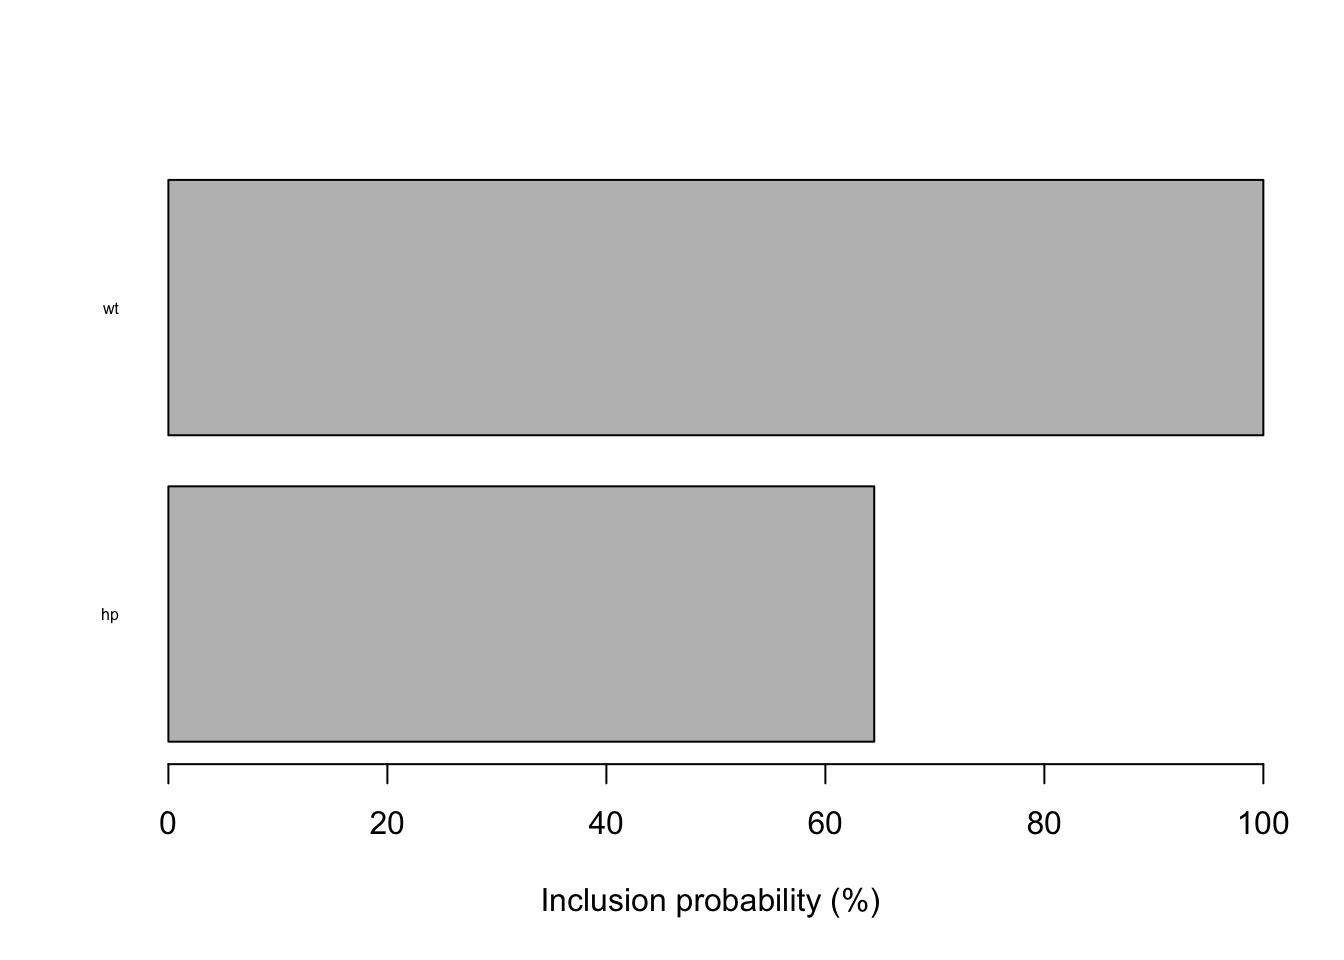
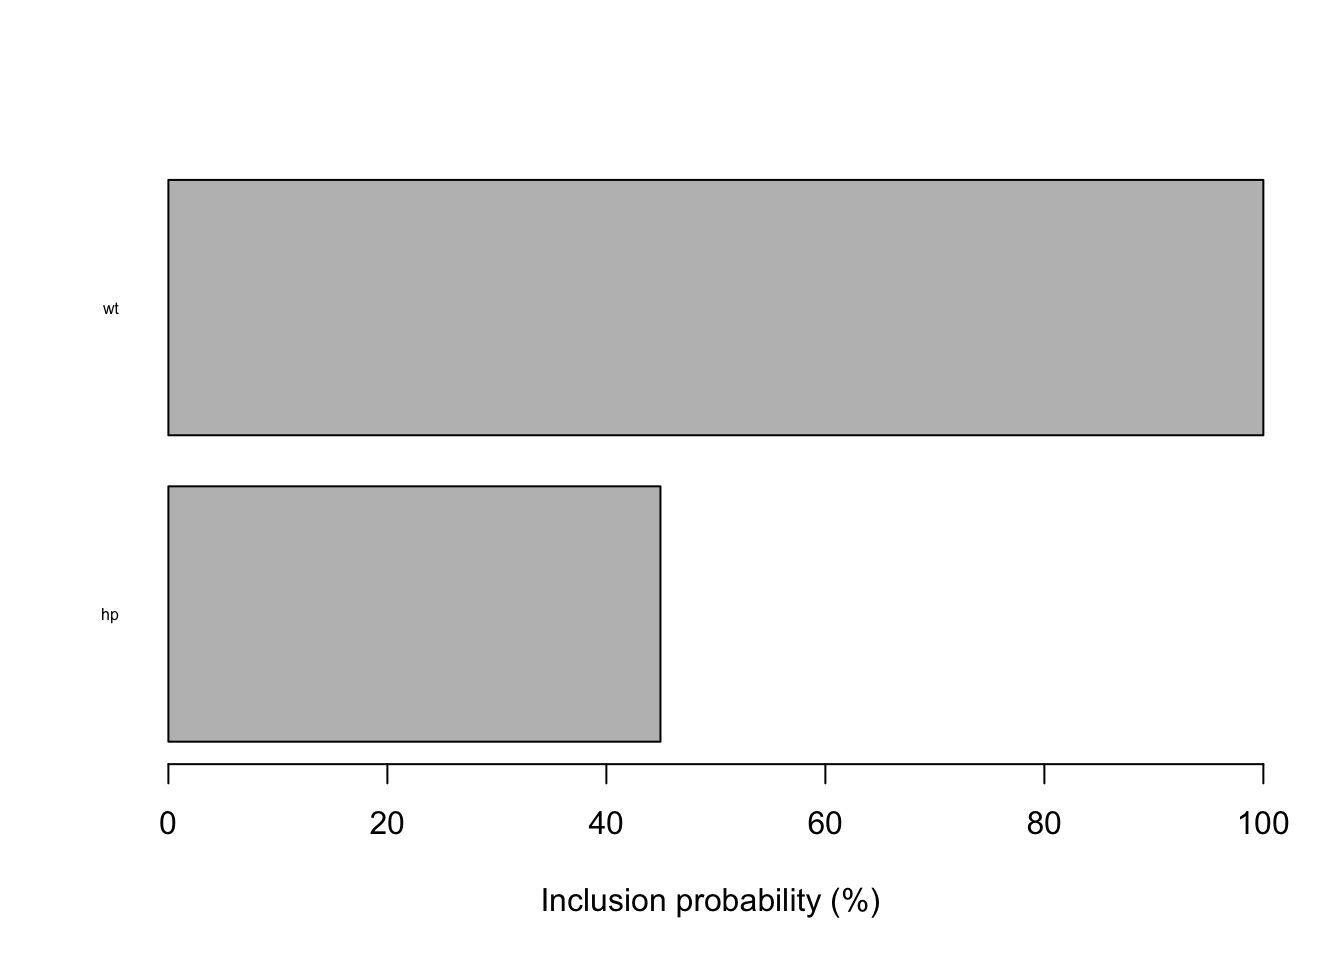
Revise articles

Changed region(s): [[0.4688, 0.5, 0.6562, 0.7812]]

diff --git a/docs/articles/quickstart.html b/docs/articles/quickstart.html
@@ -72,13 +72,12 @@
       <h1>Quickstart</h1>
                         <h4 class="author">Kim Seonghyun</h4>
             
-            <h4 class="date">2017-10-24</h4>
+            <h4 class="date">2017-12-21</h4>
           </div>
 
     
     
 <div class="contents">
-<pre><code>## Warning: package 'dplyr' was built under R version 3.4.2</code></pre>
 <div id="installation" class="section level3">
 <h3 class="hasAnchor">
 <a href="#installation" class="anchor"></a>Installation</h3>
@@ -131,22 +130,22 @@ mea_session &lt;-<span class="st"> </span><span class="dv">17</span>:<span class
 <p>If you hope to see details of those anomalies:</p>
 <div class="sourceCode"><pre class="sourceCode r"><code class="sourceCode r"><span class="kw"><a href="../reference/summarise_anomaly.html">summarise_anomaly</a></span>(.cbar, <span class="dt">.session =</span> <span class="st">"measurement"</span>)</code></pre></div>
 <pre><code>##               datetime     session    y point_pred lower_bound upper_bound
-## 1  2017-10-24 15:36:05 measurement 14.7   10.73854    6.038530    15.48577
-## 2  2017-10-24 15:37:05 measurement 32.4   24.78351   20.909834    29.09613
-## 3  2017-10-24 15:38:05 measurement 30.4   26.65729   21.523477    32.15219
-## 4  2017-10-24 15:39:05 measurement 33.9   25.78222   21.015800    30.66371
-## 5  2017-10-24 15:40:05 measurement 21.5   23.18060   19.034322    27.79085
-## 6  2017-10-24 15:41:05 measurement 15.5   17.63011   13.531929    21.60156
-## 7  2017-10-24 15:42:05 measurement 15.2   18.00846   14.001904    21.90181
-## 8  2017-10-24 15:43:05 measurement 13.3   14.37214    8.894254    19.60739
-## 9  2017-10-24 15:44:05 measurement 19.2   16.05851   11.777362    20.09438
-## 10 2017-10-24 15:45:05 measurement 27.3   25.40571   20.875118    29.54783
-## 11 2017-10-24 15:46:05 measurement 26.0   24.04003   19.378786    29.14389
-## 12 2017-10-24 15:47:05 measurement 30.4   24.93038   18.421915    30.68980
-## 13 2017-10-24 15:48:05 measurement 15.8   15.60427    8.023787    23.12472
-## 14 2017-10-24 15:49:05 measurement 19.7   19.36796   12.986639    24.68691
-## 15 2017-10-24 15:50:05 measurement 15.0   12.40539    1.893594    21.03035
-## 16 2017-10-24 15:51:05 measurement 21.4   22.02740   17.812783    26.41346
+## 1  2017-12-21 15:50:09 measurement 14.7   10.80981    6.453536    15.67128
+## 2  2017-12-21 15:51:09 measurement 32.4   24.94162   20.481840    29.27472
+## 3  2017-12-21 15:52:09 measurement 30.4   27.09495   21.555414    34.54683
+## 4  2017-12-21 15:53:09 measurement 33.9   25.98294   21.388805    30.63084
+## 5  2017-12-21 15:54:09 measurement 21.5   23.51963   18.790273    29.36701
+## 6  2017-12-21 15:55:09 measurement 15.5   17.47841   12.906749    21.52153
+## 7  2017-12-21 15:56:09 measurement 15.2   18.03678   13.881706    22.26309
+## 8  2017-12-21 15:57:09 measurement 13.3   14.58216    9.049250    20.34114
+## 9  2017-12-21 15:58:09 measurement 19.2   16.05066   11.934944    20.22790
+## 10 2017-12-21 15:59:09 measurement 27.3   25.53608   21.319480    30.16509
+## 11 2017-12-21 16:00:09 measurement 26.0   23.92192   18.553984    29.18577
+## 12 2017-12-21 16:01:09 measurement 30.4   24.48550   16.285601    30.51922
+## 13 2017-12-21 16:02:09 measurement 15.8   15.29917    4.195908    22.70719
+## 14 2017-12-21 16:03:09 measurement 19.7   18.70781    7.364142    24.43209
+## 15 2017-12-21 16:04:09 measurement 15.0   11.63437   -1.049732    20.79486
+## 16 2017-12-21 16:05:09 measurement 21.4   22.17463   18.028705    26.74785
 ##    anomaly
 ## 1    FALSE
 ## 2     TRUE
@@ -167,22 +166,22 @@ mea_session &lt;-<span class="st"> </span><span class="dv">17</span>:<span class
 <p>And if you rather want to check prediction performance:</p>
 <div class="sourceCode"><pre class="sourceCode r"><code class="sourceCode r"><span class="kw"><a href="../reference/summarise_pred_error.html">summarise_pred_error</a></span>(.cbar)</code></pre></div>
 <pre><code>##               datetime     session      diff       mape
-## 1  2017-10-24 15:36:05 measurement 3.9614574 0.26948690
-## 2  2017-10-24 15:37:05 measurement 7.6164948 0.23507700
-## 3  2017-10-24 15:38:05 measurement 3.7427063 0.12311534
-## 4  2017-10-24 15:39:05 measurement 8.1177782 0.23946248
-## 5  2017-10-24 15:40:05 measurement 1.6806032 0.07816759
-## 6  2017-10-24 15:41:05 measurement 2.1301150 0.13742677
-## 7  2017-10-24 15:42:05 measurement 2.8084577 0.18476695
-## 8  2017-10-24 15:43:05 measurement 1.0721399 0.08061202
-## 9  2017-10-24 15:44:05 measurement 3.1414881 0.16361917
-## 10 2017-10-24 15:45:05 measurement 1.8942944 0.06938807
-## 11 2017-10-24 15:46:05 measurement 1.9599693 0.07538343
-## 12 2017-10-24 15:47:05 measurement 5.4696192 0.17992168
-## 13 2017-10-24 15:48:05 measurement 0.1957334 0.01238819
-## 14 2017-10-24 15:49:05 measurement 0.3320350 0.01685457
-## 15 2017-10-24 15:50:05 measurement 2.5946141 0.17297427
-## 16 2017-10-24 15:51:05 measurement 0.6274047 0.02931798</code></pre>
+## 1  2017-12-21 15:50:09 measurement 3.8901875 0.26463861
+## 2  2017-12-21 15:51:09 measurement 7.4583765 0.23019680
+## 3  2017-12-21 15:52:09 measurement 3.3050472 0.10871866
+## 4  2017-12-21 15:53:09 measurement 7.9170636 0.23354170
+## 5  2017-12-21 15:54:09 measurement 2.0196337 0.09393645
+## 6  2017-12-21 15:55:09 measurement 1.9784081 0.12763923
+## 7  2017-12-21 15:56:09 measurement 2.8367803 0.18663028
+## 8  2017-12-21 15:57:09 measurement 1.2821648 0.09640337
+## 9  2017-12-21 15:58:09 measurement 3.1493389 0.16402807
+## 10 2017-12-21 15:59:09 measurement 1.7639188 0.06461241
+## 11 2017-12-21 16:00:09 measurement 2.0780782 0.07992608
+## 12 2017-12-21 16:01:09 measurement 5.9145010 0.19455595
+## 13 2017-12-21 16:02:09 measurement 0.5008259 0.03169784
+## 14 2017-12-21 16:03:09 measurement 0.9921852 0.05036473
+## 15 2017-12-21 16:04:09 measurement 3.3656267 0.22437511
+## 16 2017-12-21 16:05:09 measurement 0.7746257 0.03619746</code></pre>
 <p>to visualise:</p>
 <div class="sourceCode"><pre class="sourceCode r"><code class="sourceCode r"><span class="kw"><a href="../reference/plot_error.html">plot_error</a></span>(.cbar, <span class="dt">method =</span> <span class="st">"mape"</span>)</code></pre></div>
 <p><img src="quickstart_files/figure-html/unnamed-chunk-11-1.png" width="672"></p>
@@ -193,8 +192,8 @@ mea_session &lt;-<span class="st"> </span><span class="dv">17</span>:<span class
 <p>This Bayesian algorithm selects the best indicators, so we can make use of those selected indicators for structural analysis. Note that those indicators will be selected during the reference period.</p>
 <p>To see those indicators:</p>
 <div class="sourceCode"><pre class="sourceCode r"><code class="sourceCode r"><span class="kw"><a href="../reference/summarise_incprob.html">summarise_incprob</a></span>(.cbar)</code></pre></div>
-<pre><code>##        hp        wt 
-## 0.6446197 1.0000000</code></pre>
+<pre><code>##       hp       wt 
+## 0.449398 1.000000</code></pre>
 <p>to visualise:</p>
 <div class="sourceCode"><pre class="sourceCode r"><code class="sourceCode r"><span class="kw"><a href="../reference/plot_incprob.html">plot_incprob</a></span>(.cbar)</code></pre></div>
 <p><img src="quickstart_files/figure-html/unnamed-chunk-13-1.png" width="672"></p>

diff --git a/docs/index.html b/docs/index.html
@@ -81,7 +81,7 @@
 <ul class="list-unstyled">
 <li>Download from CRAN at <br><a href="https://cran.r-project.org/package=cbar">https://cran.r-project.org/package=cbar</a>
 </li>
-<li>Browse source code at <br><a href="https://github.com/zedoul/cbar">https://github.com/zedoul/cbar</a>
+<li>Browse source code at <br><a href="https://zedoul.github.io/cbar">https://zedoul.github.io/cbar</a>
 </li>
 <li>Report a bug at <br><a href="https://github.com/zedoul/cbar/issues">https://github.com/zedoul/cbar/issues</a>
 </li>

diff --git a/docs/articles/contextual-anomaly.html b/docs/articles/contextual-anomaly.html
@@ -72,7 +72,7 @@
       <h1>Contextual anomaly</h1>
                         <h4 class="author">Kim Seonghyun</h4>
             
-            <h4 class="date">2017-10-24</h4>
+            <h4 class="date">2017-12-21</h4>
           </div>
 
     
